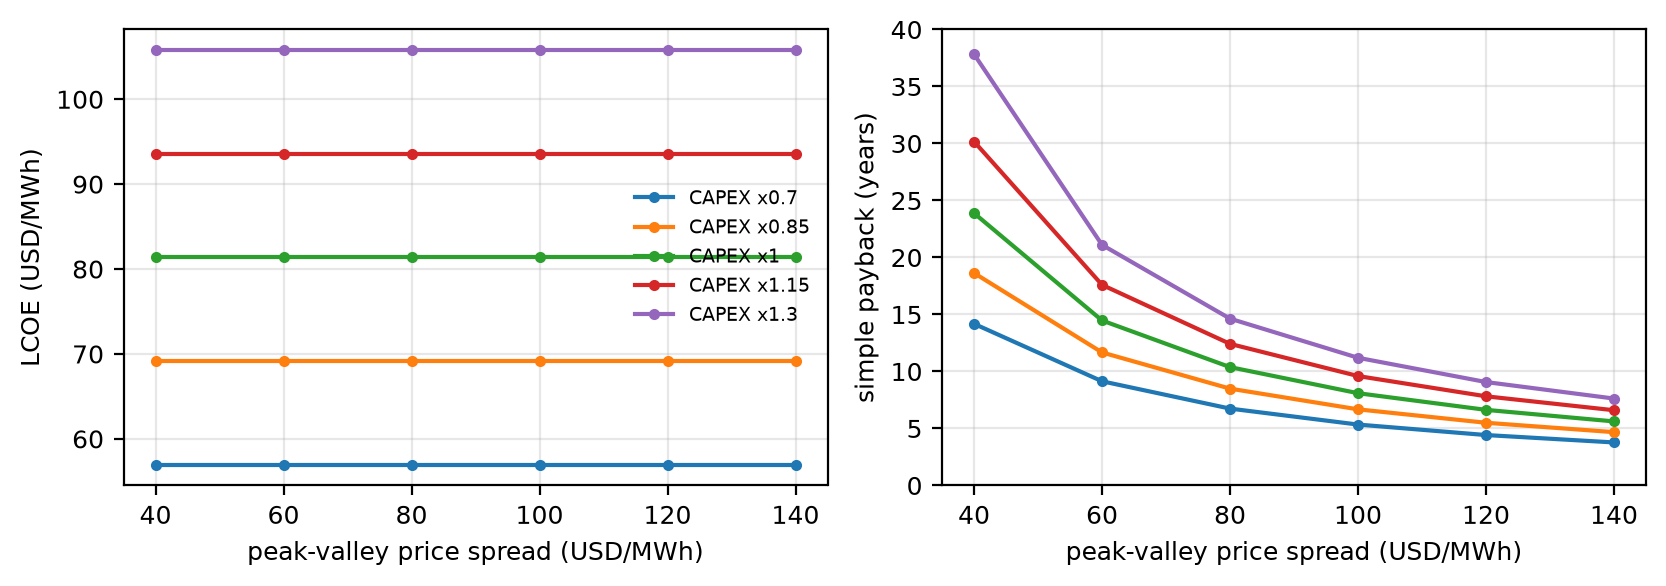
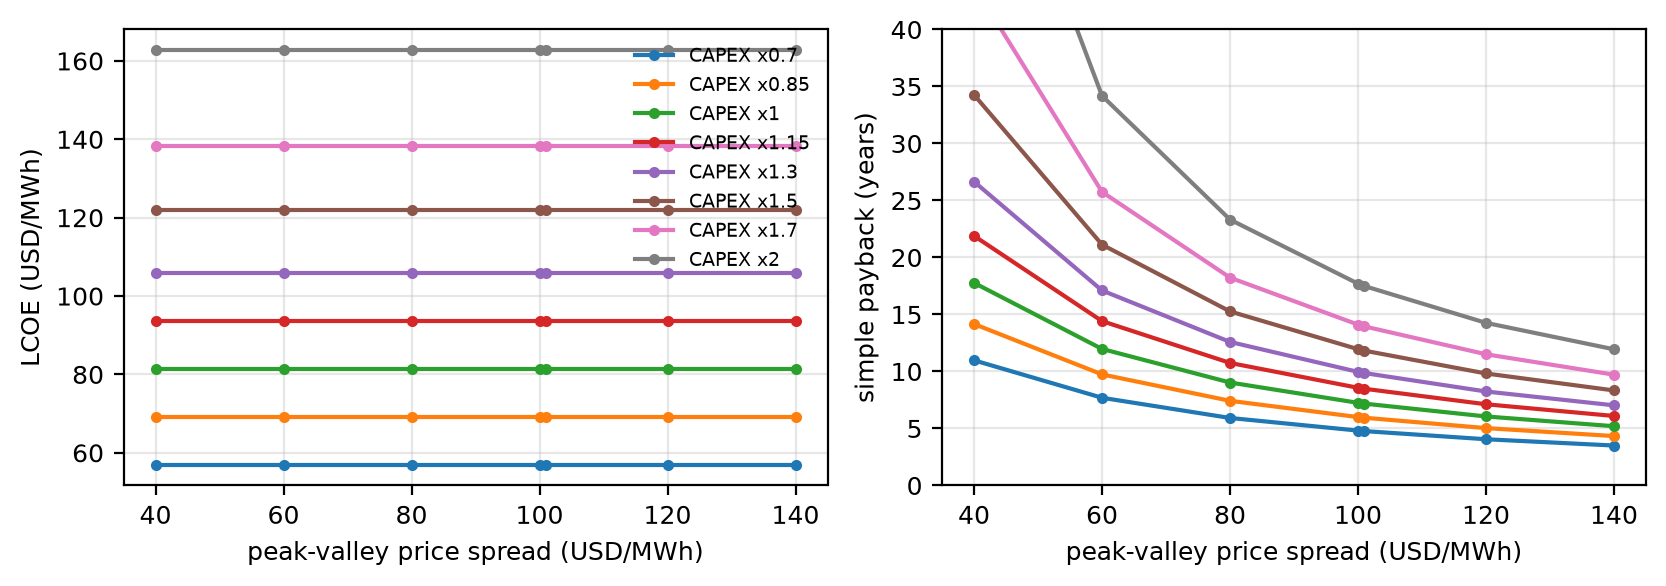
feat(econ): use Shandong tariffs and industrial steam price
- electricity: SGCC Shandong aggregated purchase tariff for March 2025, industrial
  two-part 1-10 kV (peak 1.0475, flat 0.6899, valley 0.3324 CNY/kWh, deep valley
  0.2303), converted at 7.10 CNY/USD
- heat: Jinan gas-fired industrial steam at 349 CNY/t, i.e. about 63 USD/MWh_th
- results: payback 7.0-7.6 yr, NPV +8.6 to +10.4 MUSD; break-even spread 62 USD/MWh
  against the 101 USD/MWh offered by the tariff, and a tolerable CAPEX of 23.4 MUSD
- the discharge volume, not the heat, still drives the revenue, so the rule-based
  policy keeps the highest NPV - the lambda argument of Section 6.5 survives
- sensitivity grid widened so that the CAPEX break-even is resolved

diff --git a/ML_EnergyStorage_Optimization/src/economics.py b/ML_EnergyStorage_Optimization/src/economics.py
@@ -50,9 +50,14 @@ PARAMS = {
     "opex_frac_per_year": 0.025,   # [0.015, 0.04]
     "discount_rate": 0.07,         # [0.05, 0.10]
     "life_years": 25,
-    "price_peak_usd_per_MWh": 120.0,   # [90, 180]
-    "price_valley_usd_per_MWh": 40.0,  # [20, 60]
-    "price_heat_usd_per_MWh_th": 30.0, # [20, 45]
+    # Shandong, March 2025: SGCC aggregated purchase tariff, industrial two-part
+    # 1-10 kV: peak 1.0475, flat 0.6899, valley 0.3324 CNY/kWh (deep valley 0.2303).
+    # Converted at 7.10 CNY/USD.
+    "price_peak_usd_per_MWh": 147.5,     # 1.0475 CNY/kWh
+    "price_valley_usd_per_MWh": 46.8,    # 0.3324 CNY/kWh
+    # Jinan (Shandong) gas-fired industrial steam: 349 CNY/t (Jan 2023 notice);
+    # 1 t of steam ~ 0.78 MWh_th, i.e. ~447 CNY/MWh_th.
+    "price_heat_usd_per_MWh_th": 63.0,
     "price_co2_usd_per_t": 0.0,        # optional
     "co2_kg_per_MWh": 0.0,             # avoided emissions, if counted
     "operating_days_el": 330,          # arbitrage days per year
@@ -138,8 +143,9 @@ print()
 print(summary.to_string(index=False, float_format=lambda v: f"{v:9.2f}"))
 
 # --------------------------------------------------------------- sensitivity
-price_spreads = [40, 60, 80, 100, 120, 140]
-capex_mults = [0.7, 0.85, 1.0, 1.15, 1.3]
+spread_ref = PARAMS["price_peak_usd_per_MWh"] - PARAMS["price_valley_usd_per_MWh"]
+price_spreads = sorted({40, 60, 80, 100, 120, 140, round(spread_ref)})
+capex_mults = [0.7, 0.85, 1.0, 1.15, 1.3, 1.5, 1.7, 2.0]
 sens_rows = []
 for mult in capex_mults:
     p = dict(PARAMS)
@@ -160,11 +166,11 @@ sens.to_csv(os.path.join(DATA, "economics_sensitivity.csv"), index=False)
 ref = sens[np.isclose(sens.capex_multiplier, 1.0)].sort_values("price_spread_usd_per_MWh")
 be_spread = (float(np.interp(0.0, ref.NPV_MUSD.values, ref.price_spread_usd_per_MWh.values))
              if (ref.NPV_MUSD.min() < 0 < ref.NPV_MUSD.max()) else float("nan"))
-spread_ref = PARAMS["price_peak_usd_per_MWh"] - PARAMS["price_valley_usd_per_MWh"]
-ref2 = sens[np.isclose(sens.price_spread_usd_per_MWh, spread_ref)].sort_values("capex_multiplier")
+ref2 = sens[np.isclose(sens.price_spread_usd_per_MWh, round(spread_ref))].sort_values("capex_multiplier")
 be_mult = (float(np.interp(0.0, ref2.NPV_MUSD.values[::-1], ref2.capex_multiplier.values[::-1]))
            if (ref2.NPV_MUSD.min() < 0 < ref2.NPV_MUSD.max()) else float("nan"))
-print(f"\nbreak-even peak-valley spread at reference CAPEX : {be_spread:.0f} USD/MWh")
+print(f"\nbreak-even peak-valley spread at reference CAPEX : {be_spread:.0f} USD/MWh "
+      f"(reference spread {spread_ref:.0f})")
 print(f"break-even CAPEX multiplier at reference spread  : {be_mult:.2f} "
       f"({be_mult * capex(PARAMS) / 1e6:.1f} MUSD)")
 

diff --git a/ML_EnergyStorage_Optimization/ECON_ASSUMPTIONS.md b/ML_EnergyStorage_Optimization/ECON_ASSUMPTIONS.md
@@ -1,6 +1,6 @@
 # 经济性假设（ECON_ASSUMPTIONS）
 
-> 状态：**文献校核后的占位值**（2026-11-04 更新）。量级可用于投稿判断，金额仍需按项目实际替换。
+> 状态：**山东算例 + 文献校核**（2026-11-04 更新）。电价与热价已替换为可引用的公开数据；CAPEX 仍为文献区间内的估计，需项目报价替换。
 > 代码：`src/economics.py` 的 `PARAMS` 字典，改完直接重跑，无需动模型。
 > 运行：`python src/economics.py` → `data/economics_summary.csv`、`data/economics_sensitivity.csv`、`data/fig_economics.png`
 
@@ -40,40 +40,53 @@
 | 套利运行天数 | `operating_days_el` | 330 | — | 全年除检修 |
 | 供热运行天数 | `operating_days_heat` | 150 | — | 供暖季 |
 
-> 注：会议稿的算例是"供暖季典型日"，365 天套利是期刊版才引入的口径——两个天数必须分别说明，否则 LCOE 会被低估。
+> 注：会议稿的算例是"供暖季典型日"，330 天套利是期刊版才引入的口径——两个天数必须分别说明，否则 LCOE 会被低估。
 
-## 二、参考工况结果（默认参数，ML-guided）
+### 山东电价与热价（已落实，可引用）
+
+| 项目 | 数值（原单位） | 折算 | 来源 |
+|---|---|---|---|
+| 工商业两部制 1-10 kV 高峰 | 1.0475 元/kWh | 147.5 USD/MWh | 国网山东《代理购电工商业用户电价表》，执行期 2025-03-01 至 03-31：[烟台市政府转发](https://www.yantai.gov.cn/art/2025/3/20/art_70253_3244147.html) |
+| 同表 平时段 | 0.6899 元/kWh | 97.2 USD/MWh | 同上 |
+| 同表 低谷 | 0.3324 元/kWh | 46.8 USD/MWh | 同上 |
+| 同表 尖峰 / 深谷 | 1.2007 / 0.2303 元/kWh | 169.1 / 32.4 USD/MWh | 同上（深谷可用于充电，本文未取） |
+| 工商业分时机制 | 高峰 +70 %、低谷 −70 %、尖峰 +100 %、深谷 −90 % | — | 山东省工商业分时电价政策解读（2025-04-21）：[烟台市发改委](https://fgw.yantai.gov.cn/art/2025/4/21/art_52219_2909512.html) |
+| 工业蒸汽 | 349 元/吨（燃气锅炉基准售价） | ≈447 元/MWh_th ≈ 63.0 USD/MWh_th | 济南市发改委《关于调整工业蒸汽价格有关事项的通知》，2023-01：[报道](http://jinan.subaoxw.com/zj/2023/0110/90612.html) |
+
+**折算假设**：汇率 7.10 CNY/USD；1 t 蒸汽 ≈ 2.8 GJ ≈ 0.78 MWh_th。若本文供热是采暖热水而不是工艺蒸汽，热价应改用当地"元/GJ"口径（通常显著低于蒸汽价），经济性会变差——这一点必须在正文里写清楚，否则审稿人会质疑口径混用。
+
+## 二、参考工况结果（山东价格，ML-guided）
 
 | 项目 | 值 |
 |---|---|
 | CAPEX | 15.75 MUSD |
 | 年运维 | 0.39 MUSD |
-| 年套利收入 | 1.70 MUSD |
-| 年供热收入 | 0.21 MUSD |
+| 年套利收入 | 2.14 MUSD |
+| 年供热收入 | 0.44 MUSD |
 | 年放电量 / 年供热量 | 21,450 MWh / 6,945 MWh |
 | LCOE（仅电） | 81.4 USD/MWh |
 | LCOH（电+热） | 61.5 USD/MWh |
-| 静态回收期 | 10.4 yr |
-| NPV（25 yr, 7%） | +1.93 MUSD |
+| 静态回收期 | 7.2 yr |
+| NPV（25 yr, 7 %） | **+9.75 MUSD** |
 
-三种调度策略对比（同一 CAPEX）：
+三种调度策略对比（同一 CAPEX、山东价格）：
 
-| 策略 | 年放电 MWh | 年供热 MWh | LCOE | 回收期 | NPV |
-|---|---|---|---|---|---|
-| Rule-based | 21,978 | 6,600 | 79.4 | 10.0 yr | +2.55 MUSD |
-| ML-guided | 21,450 | 6,945 | 81.4 | 10.4 yr | +1.93 MUSD |
-| LP optimum (λ=1) | 20,394 | 7,800 | 85.6 | 11.1 yr | +0.76 MUSD |
+| 策略 | 年放电 MWh | 年供热 MWh | 年收入 MUSD | LCOE | 回收期 | NPV |
+|---|---|---|---|---|---|---|
+| Rule-based | 21,978 | 6,600 | 2.64 | 79.4 | 7.0 yr | **+10.41 MUSD** |
+| ML-guided | 21,450 | 6,945 | 2.58 | 81.4 | 7.2 yr | +9.75 MUSD |
+| LP optimum (λ=1) | 20,394 | 7,800 | 2.48 | 85.6 | 7.6 yr | +8.56 MUSD |
 
-**这张表本身就是一个结论**：在"套利为主、热价为 30 USD/MWh_th"的假设下，多供热换不来收益——放电量才是收入主体，所以规则调度的 NPV 反而最高。这正好呼应正文 §6.5 的论点：**供热的经济价值取决于 λ = 热价 / 电价**，而不是系统的物理能力。
+**这张表本身就是一个结论**：在山东电价下项目能盈利，但**放电量仍是收入主体**（套利 2.1–2.2 MUSD vs 供热 0.4 MUSD），所以规则调度的 NPV 反而最高。这正好呼应正文 §6.5：供热的经济价值取决于 λ = 热价 / 电价，而不是系统的物理能力。也说明"供热增益"只有在热价显著高于本地蒸汽价、或把 λ 调到 1 以上时才转化为收益。
 
-## 三、盈亏平衡
+## 三、盈亏平衡（山东价格）
 
-| 变量 | 盈亏平衡值 |
-|---|---|
-| 峰谷电价差（CAPEX 不变） | **72 USD/MWh** |
-| CAPEX 乘数（电价差 80 USD/MWh 不变） | **1.10**（即 17.2 MUSD） |
+| 变量 | 盈亏平衡值 | 与当前值比较 |
+|---|---|---|
+| 峰谷电价差（CAPEX 不变） | **62 USD/MWh** | 山东实际约 101 USD/MWh → 有安全边际 |
+| CAPEX（电价差约 101 USD/MWh） | **23.4 MUSD（1.48 倍）** | 当前 15.75 MUSD → 可容忍 +48 % 的投资超支 |
 
-写进正文时建议这样表述：*"At the reference assumptions the plant breaks even at a peak–valley spread of 72 USD/MWh, or at a capital cost of 17.2 MUSD. The first figure is set by the local tariff and must be checked against the provincial schedule; the second lies within the 500–1200 USD/kW range reported for large-scale CAES and is consistent with the 90.7 USD/MWh LCOE of a published liquid-CO₂ case."*
+写进正文时建议这样表述：*"With the March 2025 Shandong industrial tariff (1.0475 / 0.3324 CNY per kWh for the peak and valley periods) and a gas-fired industrial steam price of 349 CNY per tonne, the plant reaches break-even at a peak–valley spread of 62 USD/MWh, well below the 101 USD/MWh offered by the tariff, and tolerates a capital cost of 23.4 MUSD before the net present value turns negative. The capital figure lies within the 500–1200 USD/kW range reported for large-scale CAES and is consistent with the 90.7 USD/MWh LCOE of a published liquid-CO₂ case."*
 
 ## 四、替换清单（你提供后我改代码）
 
